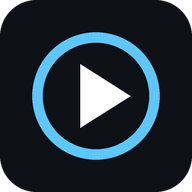
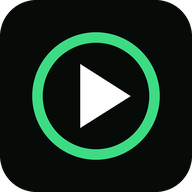
Temas verde/laranja e busca de rádios na internet
- Novos temas: verde e preto (padrão), laranja e preto; azul, claro e alto contraste mantidos
- Busca de rádios no diretório Radio Browser (nome, país, estilo), com prévia e adicionar
- Ícones e cores de instalação atualizados

Claude-Session: https://claude.ai/code/session_012oN6nCZqKTxtz2Xan1BRtG

Changed region(s): [[0.1562, 0.1562, 0.8438, 0.8438]]

diff --git a/app.js b/app.js
@@ -12,7 +12,7 @@ const store = {
 const uid = () => (crypto.randomUUID ? crypto.randomUUID() : 'id' + Date.now().toString(36) + Math.random().toString(36).slice(2));
 
 const FONT_SIZES = [18, 21, 24, 28, 33, 40];
-const THEME_COLORS = { escuro: '#0e1116', claro: '#ffffff', contraste: '#000000' };
+const THEME_COLORS = { verde: '#070b08', laranja: '#0b0907', escuro: '#0e1116', claro: '#ffffff', contraste: '#000000' };
 
 const ICON = {
   play: '<svg viewBox="0 0 24 24" aria-hidden="true"><path d="M8 5v14l11-7z"/></svg>',
@@ -27,9 +27,10 @@ const ICON = {
 const state = {
   stations: store.get('sc.stations', []),
   settings: Object.assign(
-    { fs: 2, theme: 'escuro', bold: true, volume: 1, shuffle: false, repeat: 'all', tab: 'radios' },
+    { fs: 2, theme: 'verde', themeV: 0, bold: true, volume: 1, shuffle: false, repeat: 'all', tab: 'radios' },
     store.get('sc.settings', {})
   ),
+  previewStation: null, // rádio em prévia (vinda da busca, ainda não salva)
   tracks: [],         // [{id, name, size}]
   now: null,          // {type:'radio'|'mp3', id}
   editingId: null,
@@ -175,7 +176,7 @@ function renderStations() {
   const ul = $('#stationList');
   const list = sortedStations();
   if (!list.length) {
-    ul.innerHTML = '<li class="empty">Nenhuma rádio cadastrada ainda.<br>Toque em “+ Adicionar rádio” e informe o nome e o link da transmissão.</li>';
+    ul.innerHTML = '<li class="empty">Nenhuma rádio cadastrada ainda.<br>Toque em “Buscar rádios na internet” para encontrar e adicionar, ou em “+ Adicionar pelo link”.</li>';
     return;
   }
   ul.innerHTML = list.map(s => {
@@ -242,7 +243,9 @@ function fmt(t) {
 function setStatus(msg) { $('#nowSub').textContent = msg; }
 
 function currentStation() {
-  return state.now && state.now.type === 'radio' ? state.stations.find(s => s.id === state.now.id) : null;
+  if (!state.now || state.now.type !== 'radio') return null;
+  return state.stations.find(s => s.id === state.now.id) ||
+    (state.previewStation && state.previewStation.id === state.now.id ? state.previewStation : null);
 }
 function currentTrack() {
   return state.now && state.now.type === 'mp3' ? state.tracks.find(t => t.id === state.now.id) : null;
@@ -311,6 +314,16 @@ function startPlayback() {
 function playRadio(id) {
   const st = state.stations.find(s => s.id === id);
   if (!st) return;
+  startRadio(st);
+}
+
+function playPreview(st) {
+  state.previewStation = { id: 'preview:' + st.uuid, name: st.name, url: st.url };
+  startRadio(state.previewStation);
+}
+
+function startRadio(st) {
+  const id = st.id;
   state.now = { type: 'radio', id };
   state.retries = 0;
   releaseObjectUrl();
@@ -565,6 +578,140 @@ $('#stationForm').addEventListener('submit', e => {
   updatePlayerUI();
 });
 
+
+/* ---------- busca de rádios na internet (diretório público Radio Browser) ---------- */
+// Servidores do diretório. Tenta em ordem e lembra o primeiro que responder.
+const RB_HOSTS = ['de1.api.radio-browser.info', 'de2.api.radio-browser.info', 'fi1.api.radio-browser.info', 'nl1.api.radio-browser.info', 'all.api.radio-browser.info'];
+
+async function rbFetch(path) {
+  const saved = store.get('sc.rbhost', null);
+  const hosts = saved ? [saved].concat(RB_HOSTS.filter(h => h !== saved)) : RB_HOSTS;
+  let lastErr = new Error('sem servidor');
+  for (const h of hosts) {
+    const ctl = new AbortController();
+    const timer = setTimeout(() => ctl.abort(), 9000);
+    try {
+      const r = await fetch('https://' + h + path, { signal: ctl.signal });
+      clearTimeout(timer);
+      if (!r.ok) throw new Error('HTTP ' + r.status);
+      const data = await r.json();
+      store.set('sc.rbhost', h);
+      return data;
+    } catch (e) { clearTimeout(timer); lastErr = e; }
+  }
+  throw lastErr;
+}
+
+const search = { tag: '', results: [] };
+const sDlg = $('#searchDialog');
+
+function openSearch() {
+  sDlg.showModal();
+  if (!search.results.length && !$('#sResults').children.length) runSearch();
+  $('#sQuery').focus();
+}
+
+function normalizeStation(r) {
+  const url = String(r.url_resolved || r.url || '').trim();
+  const name = String(r.name || '').replace(/\s+/g, ' ').trim();
+  if (!name || !/^https?:\/\/\S+$/i.test(url)) return null;
+  return {
+    uuid: String(r.stationuuid || url),
+    name: name.slice(0, 120),
+    url,
+    meta: [r.countrycode, [r.codec, r.bitrate ? r.bitrate + ' kbps' : ''].filter(Boolean).join(' '), String(r.tags || '').split(',').map(t => t.trim()).filter(Boolean).slice(0, 3).join(', ')]
+      .filter(Boolean).join(' · ')
+  };
+}
+
+async function runSearch() {
+  const q = $('#sQuery').value.trim();
+  const params = new URLSearchParams({ hidebroken: 'true', order: 'clickcount', reverse: 'true', limit: '100' });
+  if (q) params.set('name', q);
+  if (search.tag) params.set('tag', search.tag);
+  const cc = $('#sCountry').value;
+  if (cc) params.set('countrycode', cc);
+  const onlyHttps = $('#sHttps').checked;
+  const status = $('#sStatus');
+  status.textContent = 'Buscando…';
+  $('#sGo').disabled = true;
+  try {
+    const raw = await rbFetch('/json/stations/search?' + params.toString());
+    const seen = new Set();
+    const list = [];
+    for (const r of Array.isArray(raw) ? raw : []) {
+      const s = normalizeStation(r);
+      if (!s || seen.has(s.url)) continue;
+      if (onlyHttps && location.protocol === 'https:' && !/^https:/i.test(s.url)) continue;
+      seen.add(s.url);
+      list.push(s);
+      if (list.length >= 40) break;
+    }
+    search.results = list;
+    status.textContent = list.length
+      ? `${list.length} rádio${list.length > 1 ? 's' : ''} encontrada${list.length > 1 ? 's' : ''}, da mais ouvida para a menos.`
+      : 'Nenhuma rádio encontrada. Tente outro nome, outro país ou desmarque “só https”.';
+    renderSearchResults();
+  } catch (e) {
+    search.results = [];
+    $('#sResults').innerHTML = '';
+    status.textContent = 'Não consegui acessar o diretório de rádios agora. Verifique a internet e tente de novo; ou adicione a rádio pelo link.';
+  } finally {
+    $('#sGo').disabled = false;
+  }
+}
+
+function renderSearchResults() {
+  const have = new Set(state.stations.map(s => s.url));
+  $('#sResults').innerHTML = search.results.map((s, i) => {
+    const added = have.has(s.url);
+    return `<li class="item" data-i="${i}">
+      <div class="pad"><span class="name">${esc(s.name)}</span><span class="meta">${esc(s.meta)}</span></div>
+      <div class="acts">
+        <button type="button" data-act="preview">▶ Ouvir</button>
+        <button type="button" data-act="add" ${added ? 'disabled' : ''}>${added ? '✓ Já adicionada' : '+ Adicionar'}</button>
+      </div>
+    </li>`;
+  }).join('');
+}
+
+$('#searchStations').addEventListener('click', openSearch);
+$('#sClose').addEventListener('click', () => sDlg.close());
+$('#searchForm').addEventListener('submit', e => { e.preventDefault(); runSearch(); });
+$('#sCountry').addEventListener('change', runSearch);
+$('#sHttps').addEventListener('change', runSearch);
+$('#sTags').addEventListener('click', e => {
+  const b = e.target.closest('button[data-tag]');
+  if (!b) return;
+  const same = search.tag === b.dataset.tag;
+  search.tag = same ? '' : b.dataset.tag;
+  $$('#sTags button').forEach(x => x.setAttribute('aria-pressed', String(x.dataset.tag === search.tag)));
+  runSearch();
+});
+$('#sResults').addEventListener('click', e => {
+  const btn = e.target.closest('button[data-act]');
+  if (!btn || btn.disabled) return;
+  const s = search.results[Number(btn.closest('.item').dataset.i)];
+  if (!s) return;
+  if (btn.dataset.act === 'preview') {
+    playPreview(s);
+  } else if (btn.dataset.act === 'add') {
+    if (!state.stations.some(x => x.url === s.url)) {
+      const id = uid();
+      state.stations.push({ id, name: s.name, url: s.url, fav: false });
+      saveStations();
+      // se esta rádio está tocando como prévia, passa a ser a rádio salva
+      if (state.previewStation && state.now && state.now.id === state.previewStation.id && state.previewStation.url === s.url) {
+        state.now = { type: 'radio', id };
+        state.previewStation = null;
+      }
+      toast(`“${s.name}” adicionada às suas rádios.`);
+      updatePlayerUI();
+      renderSearchResults();
+    }
+  }
+});
+
 /* ---------- músicas ---------- */
 $('#addFiles').addEventListener('click', () => $('#fileInput').click());
 $('#addFolder').addEventListener('click', () => $('#folderInput').click());
@@ -717,6 +864,7 @@ $$('[role="tab"]').forEach(b => b.addEventListener('click', () => showTab(b.data
 
 /* ---------- inicialização ---------- */
 async function init() {
+  if (state.settings.themeV !== 2) { state.settings.theme = 'verde'; state.settings.themeV = 2; }  // novo visual padrão (uma vez)
   applyAppearance();
   setVolume(state.settings.volume);
   showTab(['radios', 'musicas', 'ajustes'].includes(state.settings.tab) ? state.settings.tab : 'radios');

diff --git a/index.html b/index.html
@@ -1,9 +1,9 @@
 <!doctype html>
-<html lang="pt-BR" data-theme="escuro">
+<html lang="pt-BR" data-theme="verde">
 <head>
 <meta charset="utf-8">
 <meta name="viewport" content="width=device-width, initial-scale=1, viewport-fit=cover">
-<meta name="theme-color" content="#0e1116">
+<meta name="theme-color" content="#070b08">
 <meta name="description" content="Rádios online e músicas MP3 em um só lugar, sem propaganda, com letras grandes.">
 <link rel="manifest" href="manifest.webmanifest">
 <link rel="icon" href="icon.svg" type="image/svg+xml">
@@ -31,7 +31,8 @@
 
   <section id="tab-radios" role="tabpanel" aria-labelledby="t-radios">
     <div class="toolbar">
-      <button type="button" class="btn primary" id="addStation">+ Adicionar rádio</button>
+      <button type="button" class="btn primary" id="searchStations">Buscar rádios na internet</button>
+      <button type="button" class="btn" id="addStation">+ Adicionar pelo link</button>
     </div>
     <ul class="list" id="stationList"></ul>
   </section>
@@ -69,7 +70,9 @@
     <div class="card">
       <h2>Cores</h2>
       <div class="row" id="themeRow">
-        <button type="button" class="btn" data-theme-set="escuro" aria-pressed="true">Escuro</button>
+        <button type="button" class="btn" data-theme-set="verde" aria-pressed="true">Verde</button>
+        <button type="button" class="btn" data-theme-set="laranja" aria-pressed="false">Laranja</button>
+        <button type="button" class="btn" data-theme-set="escuro" aria-pressed="false">Azul</button>
         <button type="button" class="btn" data-theme-set="claro" aria-pressed="false">Claro</button>
         <button type="button" class="btn" data-theme-set="contraste" aria-pressed="false">Alto contraste</button>
       </div>
@@ -156,6 +159,47 @@
       <button type="button" class="btn" id="stCancel">Cancelar</button>
       <button type="submit" class="btn primary" id="stSave">Salvar</button>
     </div>
+  </form>
+</dialog>
+
+<dialog id="searchDialog" aria-labelledby="searchTitle">
+  <form id="searchForm" method="dialog" novalidate>
+    <h2 id="searchTitle">Buscar rádios</h2>
+    <label class="field" for="sQuery">
+      <span>Nome da rádio (vazio = as mais ouvidas)</span>
+      <input type="search" id="sQuery" autocomplete="off" placeholder="Ex.: paraíso">
+    </label>
+    <label class="field" for="sCountry">
+      <span>País</span>
+      <select id="sCountry">
+        <option value="BR" selected>Brasil</option>
+        <option value="UY">Uruguai</option>
+        <option value="AR">Argentina</option>
+        <option value="PT">Portugal</option>
+        <option value="US">Estados Unidos</option>
+        <option value="">Todos os países</option>
+      </select>
+    </label>
+    <div class="tags" id="sTags" role="group" aria-label="Estilo musical">
+      <button type="button" data-tag="rock" aria-pressed="false">Rock</button>
+      <button type="button" data-tag="mpb" aria-pressed="false">MPB</button>
+      <button type="button" data-tag="pop" aria-pressed="false">Pop</button>
+      <button type="button" data-tag="jazz" aria-pressed="false">Jazz</button>
+      <button type="button" data-tag="instrumental" aria-pressed="false">Instrumental</button>
+      <button type="button" data-tag="classical" aria-pressed="false">Clássica</button>
+      <button type="button" data-tag="sertanejo" aria-pressed="false">Sertanejo</button>
+      <button type="button" data-tag="news" aria-pressed="false">Notícias</button>
+    </div>
+    <label class="check" for="sHttps">
+      <input type="checkbox" id="sHttps" checked>
+      <span>Só links https (os que tocam neste app)</span>
+    </label>
+    <div class="row">
+      <button type="button" class="btn" id="sClose">Fechar</button>
+      <button type="submit" class="btn primary" id="sGo">Buscar</button>
+    </div>
+    <p class="note" id="sStatus" aria-live="polite"></p>
+    <ul class="list" id="sResults"></ul>
   </form>
 </dialog>
 

diff --git a/style.css b/style.css
@@ -9,6 +9,33 @@
   --u: min(var(--fs), 22px);
 }
 
+/* Verde e preto (padrão) */
+:root[data-theme="verde"] {
+  --bg: #070b08;
+  --panel: #0f1a12;
+  --panel2: #17271c;
+  --text: #f2fff5;
+  --muted: #b9d0bf;
+  --accent: #3ddc84;
+  --accent-text: #04130a;
+  --danger: #ff8a80;
+  --line: #4f7a5c;
+  --focus: #ffd84d;
+}
+/* Laranja e preto */
+:root[data-theme="laranja"] {
+  --bg: #0b0907;
+  --panel: #1a130d;
+  --panel2: #271c12;
+  --text: #fff7ee;
+  --muted: #dac7b0;
+  --accent: #ff9f1c;
+  --accent-text: #1a0e00;
+  --danger: #ff8a80;
+  --line: #8a6234;
+  --focus: #6fe3ff;
+}
+/* Azul */
 :root[data-theme="escuro"] {
   --bg: #0e1116;
   --panel: #181d25;
@@ -18,7 +45,7 @@
   --accent: #5cc8ff;
   --accent-text: #00141f;
   --danger: #ff8a80;
-  --line: #3a4455;
+  --line: #56627a;
   --focus: #ffd84d;
 }
 :root[data-theme="claro"] {
@@ -73,7 +100,8 @@ body {
 :root[data-bold="1"] .chip,
 :root[data-bold="1"] .list .name { font-weight: 800; }
 
-button, input, dialog { font: inherit; color: inherit; }
+button, input, select, dialog { font: inherit; color: inherit; }
+select, option { color: var(--text); background: var(--bg); }
 
 :focus-visible {
   outline: 4px solid var(--focus);
@@ -354,6 +382,35 @@ input[type="range"]::-moz-range-thumb {
   .ctl.big { min-height: 2.9em; }
   .now-sub { display: none; }
 }
+
+/* Busca de rádios */
+select {
+  width: 100%;
+  min-height: var(--tap);
+  padding: 0.4rem 0.7rem;
+  border: 2px solid var(--line);
+  border-radius: var(--radius);
+  background: var(--bg);
+  font-size: min(1rem, 30px);
+}
+.check { display: flex; align-items: center; gap: 0.6rem; font-size: min(0.9rem, 24px); }
+.check input { width: 1.6em; height: 1.6em; flex: 0 0 auto; accent-color: var(--accent); }
+.tags { display: flex; flex-wrap: wrap; gap: 0.4rem; }
+.tags button {
+  min-height: 2.7em;
+  padding: 0.2em 0.9em;
+  border: 2px solid var(--line);
+  border-radius: 999px;
+  background: var(--panel2);
+  font-size: min(0.85rem, 22px);
+  font-weight: 700;
+  cursor: pointer;
+}
+.tags button[aria-pressed="true"] { background: var(--accent); color: var(--accent-text); border-color: var(--accent); }
+.item .meta { display: block; font-size: min(0.8rem, 20px); color: var(--muted); margin-top: 0.15rem; }
+.item .pad { padding: 0.3rem 0.4rem; }
+#searchDialog { max-height: 92vh; max-height: 92dvh; overflow-y: auto; }
+#searchDialog .list { margin-top: 0.8rem; }
 
 /* Diálogos */
 dialog {

diff --git a/sw.js b/sw.js
@@ -1,6 +1,6 @@
 /* Service worker do AudioApp: guarda só os arquivos do próprio app.
    Nunca intercepta áudio, transmissões de rádio nem pedidos de outros sites. */
-const CACHE = 'audioapp-v1';
+const CACHE = 'audioapp-v2';
 const SHELL = [
   './', './index.html', './style.css', './app.js', './manifest.webmanifest',
   './icon.svg', './icon-192.png', './icon-512.png', './icon-maskable-512.png'
